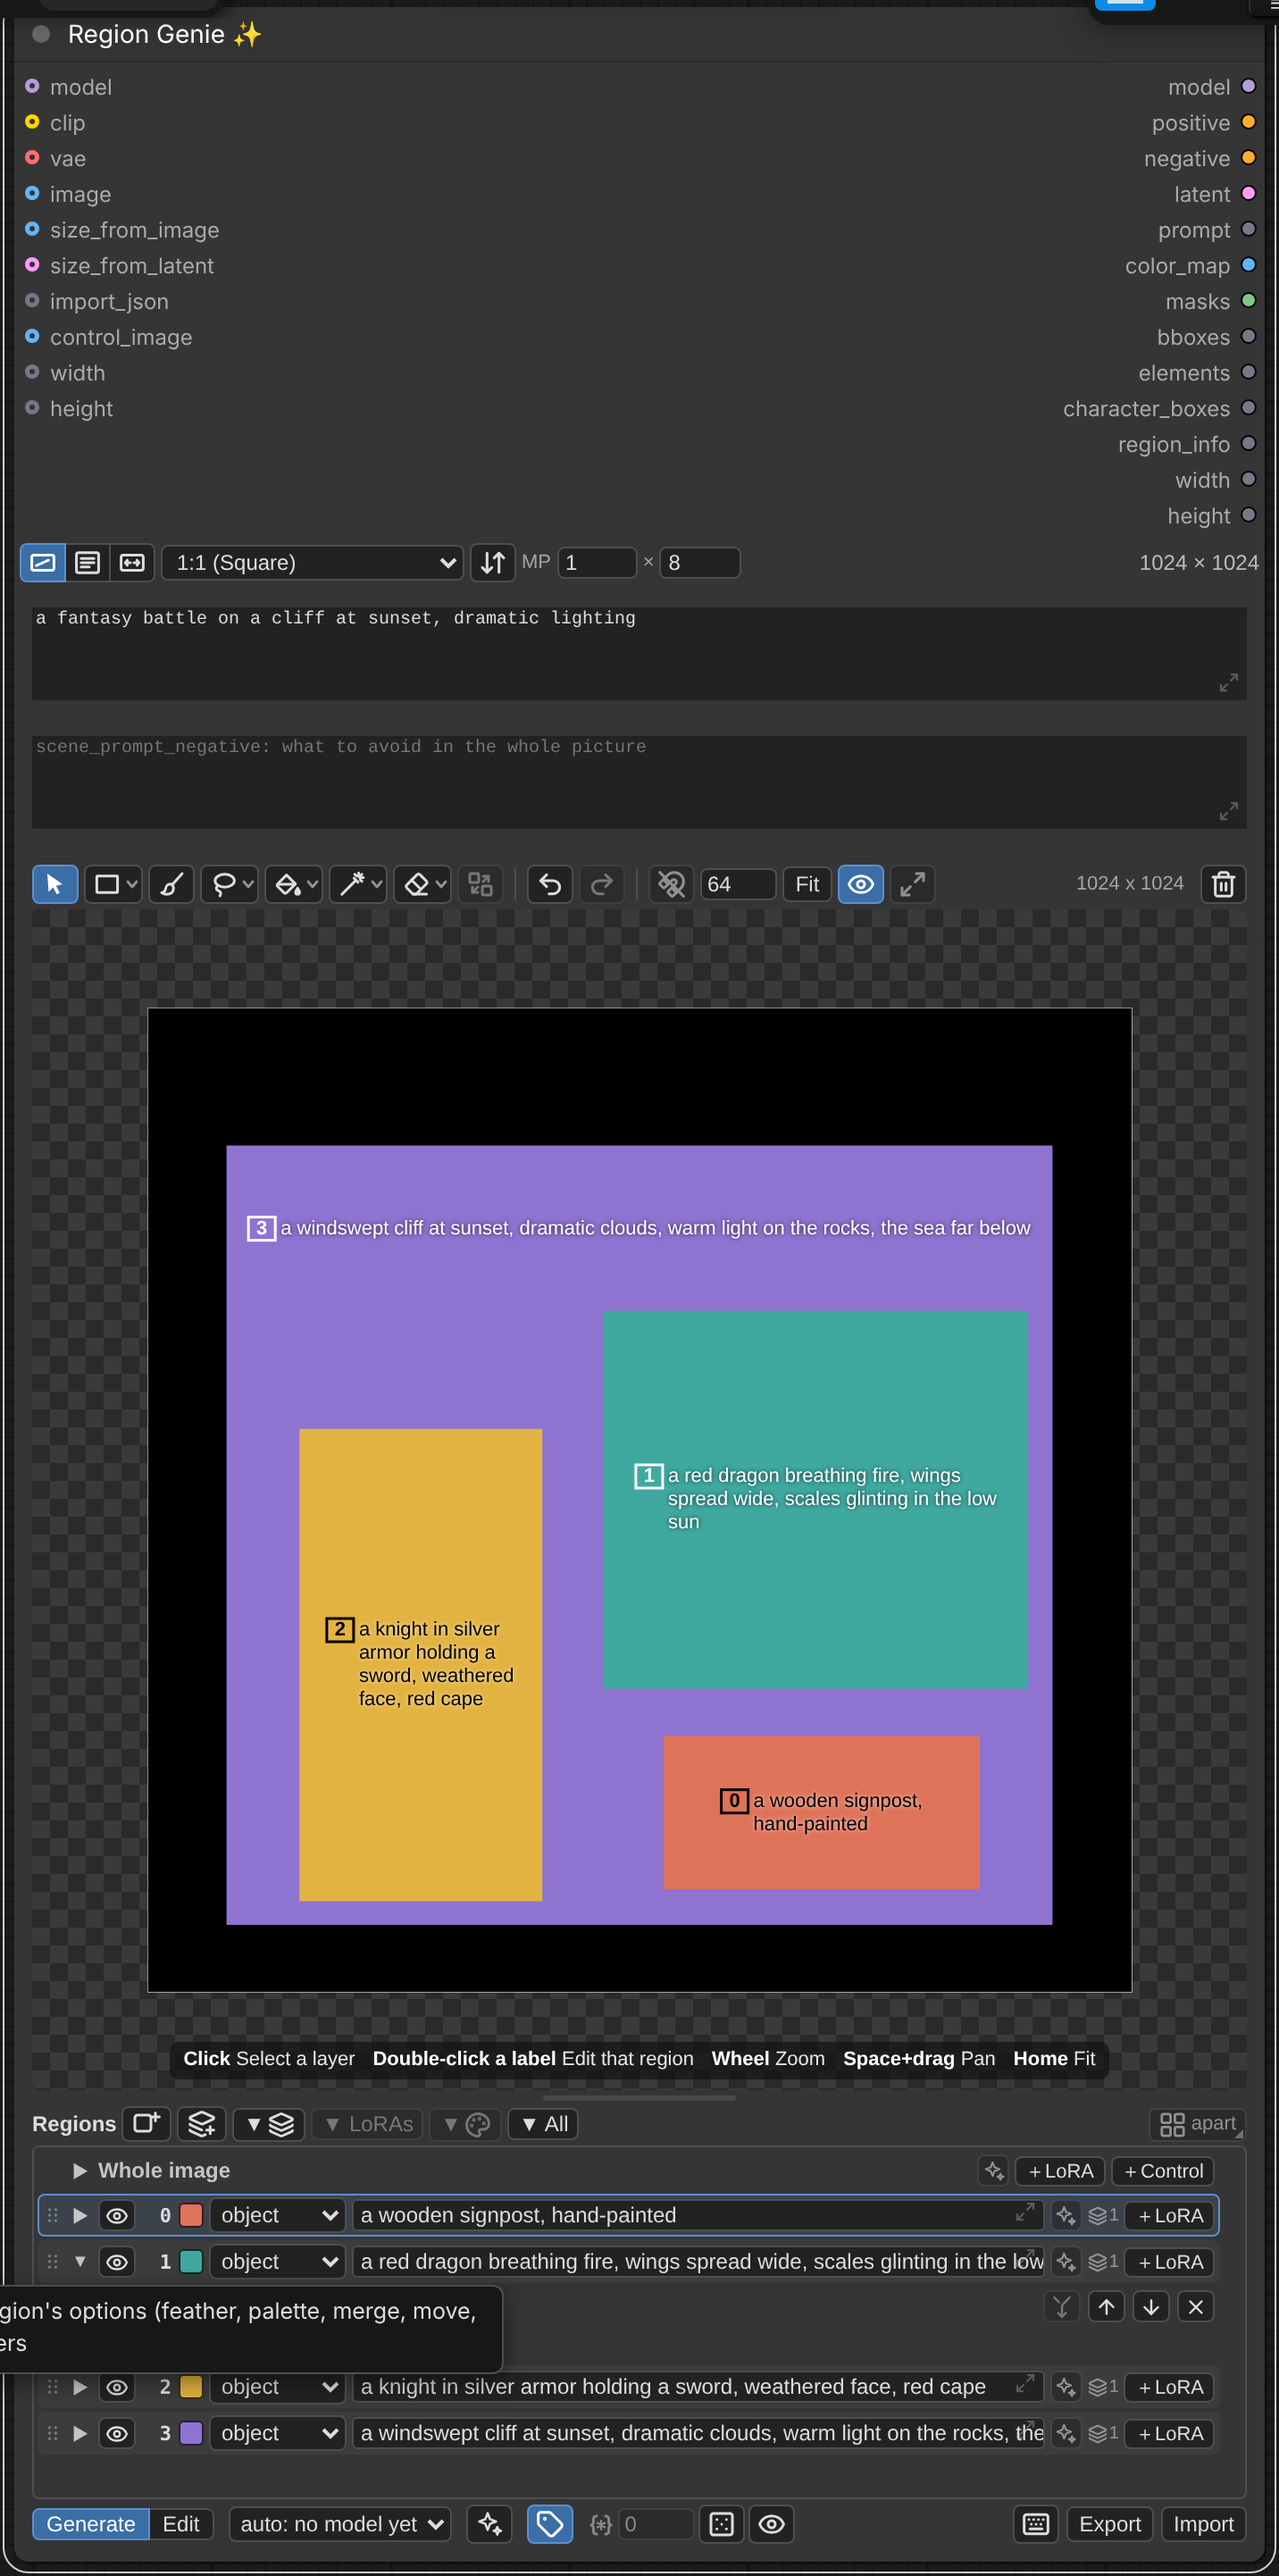
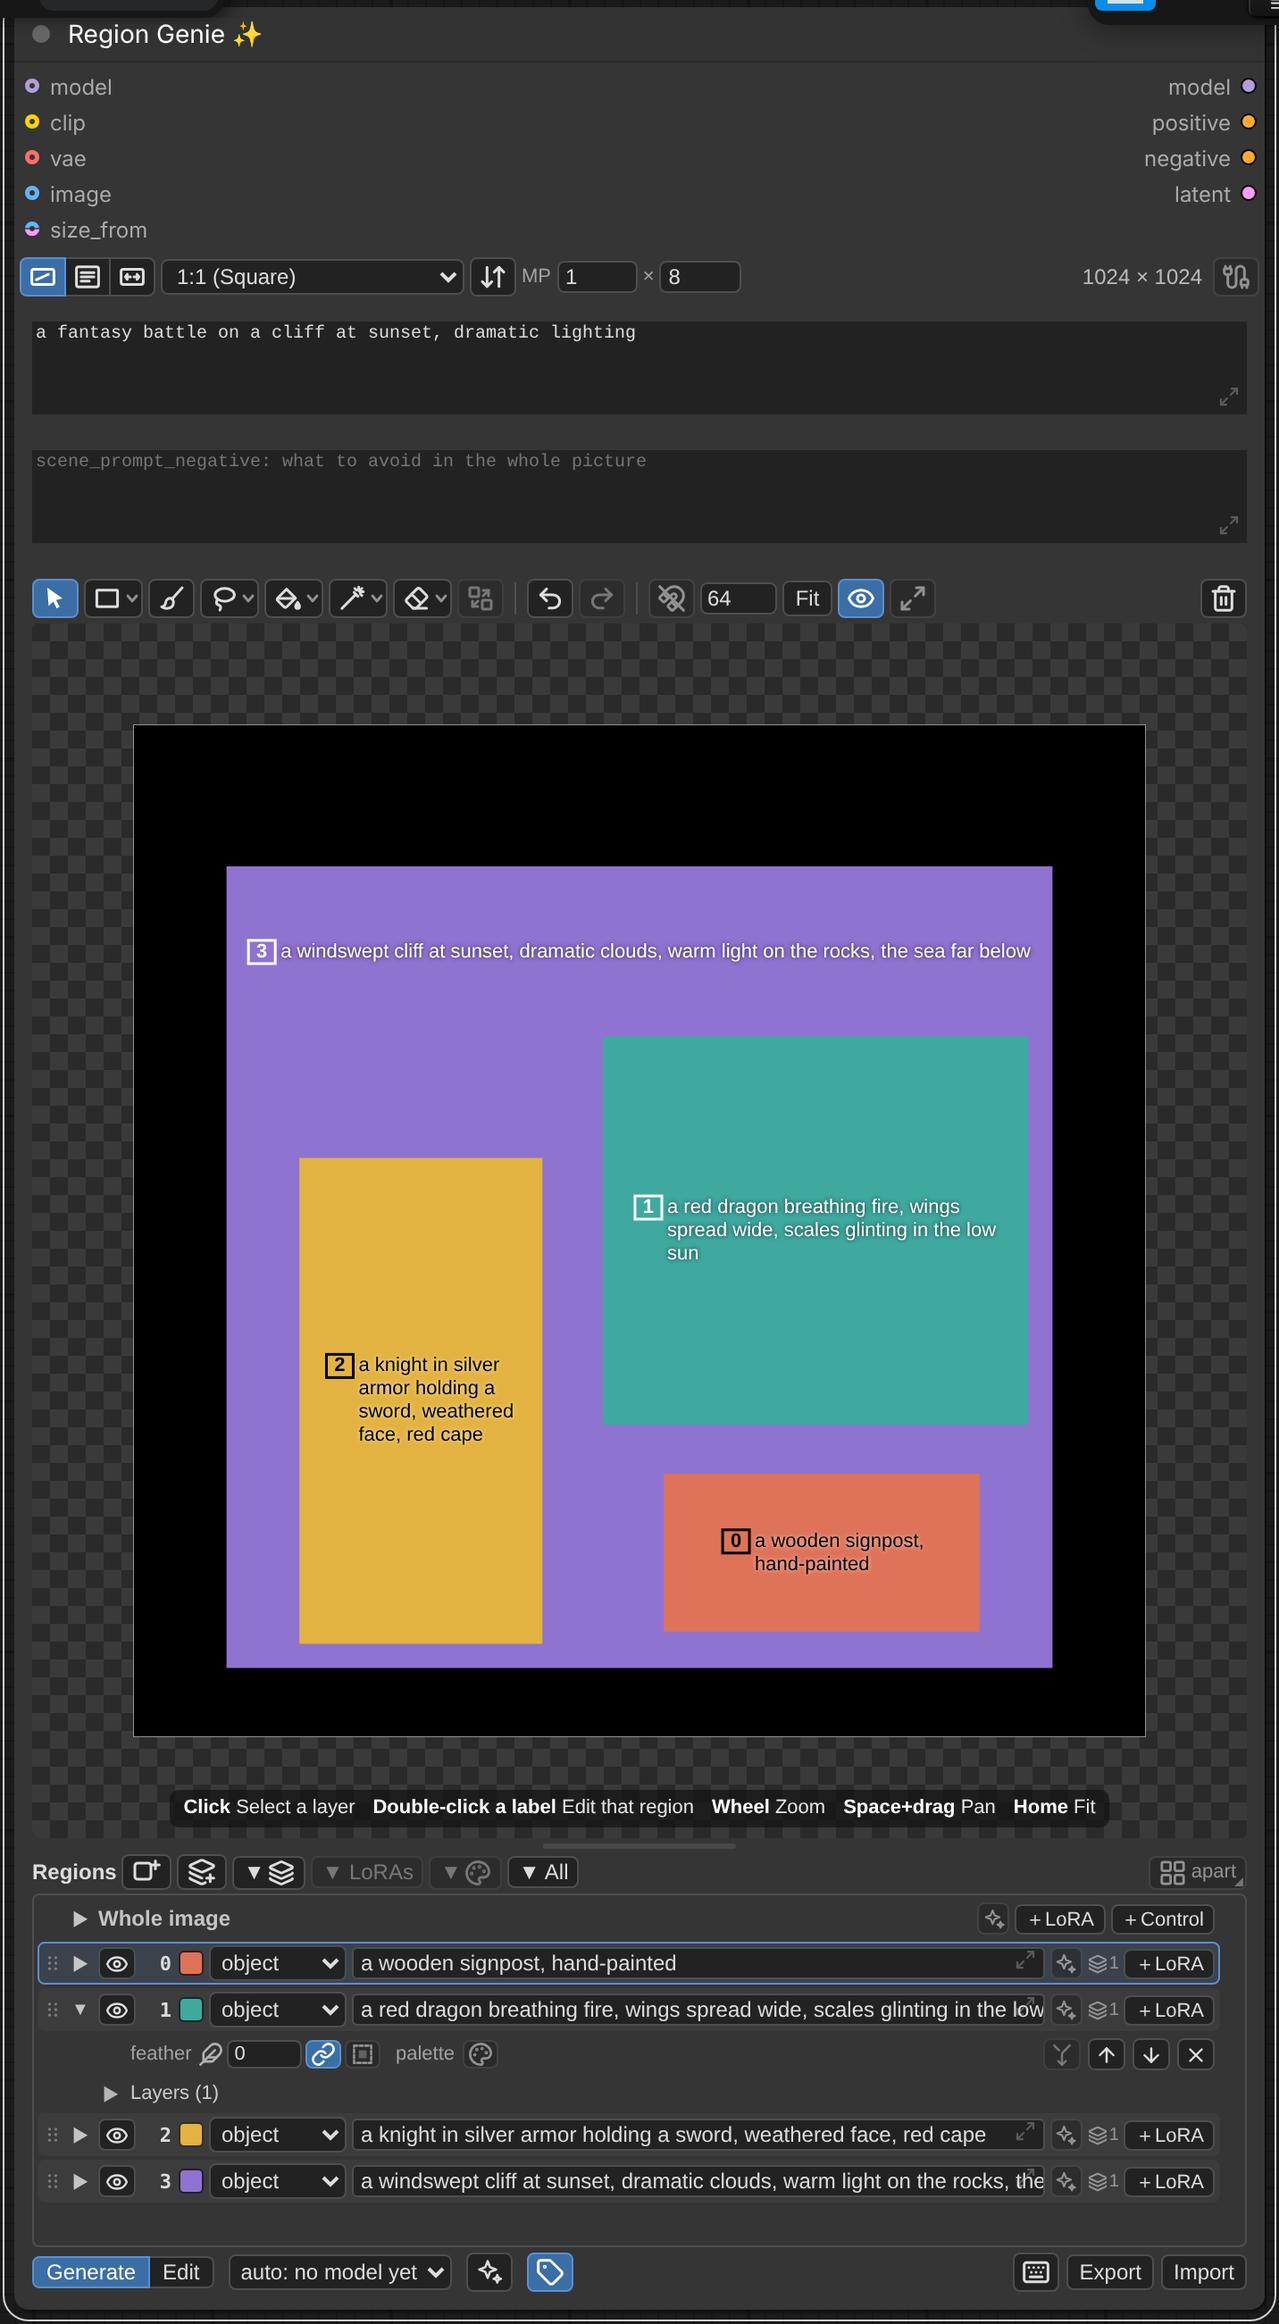
Header messages stay on one line; Edit area controls after their label; pictures retaken; setup makes the test image
Claude-Session: https://claude.ai/code/session_01B5U1gpBZHxaHUVoHyaNrX1

diff --git a/js/editor/style.js b/js/editor/style.js
@@ -211,7 +211,7 @@ body:has(.rg-big):not(:has(.rg-llm-pop)) .litecontextmenu, body:has(.rg-big):not
 .rg-row.scene:hover, .rg-row.ctrl:hover { background:color-mix(in srgb, currentColor 7%, transparent); }
 .rg-editmask { display:inline-flex; align-items:center; gap:2px; margin-right:6px; }
 .rg-editmask .rg-num { width:44px; }
-.rg-row.editarea .rg-pseudo { font-style:normal; font-weight:600; user-select:none; }
+.rg-row.editarea .rg-pseudo { font-style:normal; font-weight:600; user-select:none; flex:0 0 auto; margin-right:8px; }
 .rg-row.editarea .rg-sel { max-width:none; }
 .rg-row.editarea label { display:inline-flex; align-items:center; }
 .rg-row.editarea .rg-editmask { margin-left:8px; }
@@ -254,6 +254,9 @@ body:has(.rg-big):not(:has(.rg-llm-pop)) .litecontextmenu, body:has(.rg-big):not
 .rg-loraopts .rg-num { width:52px; }
 .rg-head { display:flex; align-items:center; gap:3px; flex-wrap:wrap; font-weight:600; }
 .rg-head .rg-btn { font-weight:normal; padding:1px 5px; }
+.rg-head .rg-status { flex:1 1 0; min-width:0; overflow:hidden; text-overflow:ellipsis; white-space:nowrap; }
+.rg-head .rg-status:empty { display:none; }
+.rg-head .rg-status.wide { flex:1 1 100%; order:9; white-space:normal; }
 .rg-list { flex:1 1 auto; overflow-y:auto; display:flex; flex-direction:column; gap:2px; min-height:0;
   border:1px solid var(--border-color,#444); border-radius:4px; padding:2px; }
 .rg-row { display:flex; align-items:center; gap:3px; padding:1px 2px; border-radius:4px; border:1px solid transparent; cursor:default; }

diff --git a/js/editor/regions.js b/js/editor/regions.js
@@ -330,9 +330,12 @@ export function* regions(E) {
         E.requestDraw();
     }
     E.hintTimer = 0; let keepHintUntil = 0;
+    // a short message in the list header: on the header's one line, cut with "…" when it doesn't fit (its tooltip has
+    // all of it), so the header doesn't jump to two lines for 3.5 s (round 40). Select object's standing instructions
+    // (stickyHint in selectTools.js) are long and stay as long as the tool waits: they get a line of their own.
     function hint(text) {
-        E.statusLbl.textContent = text || "";
+        E.statusLbl.textContent = text || ""; E.statusLbl.title = text || ""; E.statusLbl.classList.remove("wide");
         clearTimeout(E.hintTimer);
-        if (text) E.hintTimer = setTimeout(() => { E.statusLbl.textContent = ""; }, 3500);
+        if (text) E.hintTimer = setTimeout(() => { E.statusLbl.textContent = ""; E.statusLbl.title = ""; }, 3500);
     }
 }

diff --git a/js/editor/selectTools.js b/js/editor/selectTools.js
@@ -192,7 +192,7 @@ export function* selectTools(E) {
     // ---------------- Select object (SAM 3.1 on the server) ----------------
     const samKeep = () => getSetting(SET.samKeep, "keep loaded") !== "unload";
     function pickStart() { E.pick = { id: ++E.pickIds, pts: [], box: null, text: "", masks: [], overlay: null, sent: false }; return E.pick; }
-    function stickyHint(text) { clearTimeout(E.hintTimer); E.statusLbl.textContent = text || ""; }
+    function stickyHint(text) { clearTimeout(E.hintTimer); E.statusLbl.textContent = text || ""; E.statusLbl.title = ""; E.statusLbl.classList.toggle("wide", !!text); }
     function pickPointer(d) {
         const [W, H] = E.dims();
         if (!E.backdrop || !E.backdropRef) { E.hint("Select object " + NEEDS_IMAGE); return; }

diff --git a/js/editor/canvasUi.js b/js/editor/canvasUi.js
@@ -162,7 +162,7 @@ export function* canvasUi(E) {
         palette: E.btn("▼ Color Palettes", "Show or hide the color palettes of every region", () => E.toggleKind("palette")),
         all: E.btn("▼ All", "Show or hide everything in the list", () => E.toggleKind("all")),
     }; E.expandBtns = expandBtns;
-    const statusLbl = E.el("span", "rg-hint"); E.statusLbl = statusLbl;
+    const statusLbl = E.el("span", "rg-hint rg-status"); E.statusLbl = statusLbl;
     const loraOptsBox = E.el("span", "rg-loraopts");
     const sepIn = E.el("input", "rg-num"); E.sepIn = sepIn; sepIn.type = "number"; sepIn.min = "0"; sepIn.max = "1"; sepIn.step = "0.05";
     sepIn.title = "LoRA region separation: How much attention between the image of different LoRA regions is removed "
